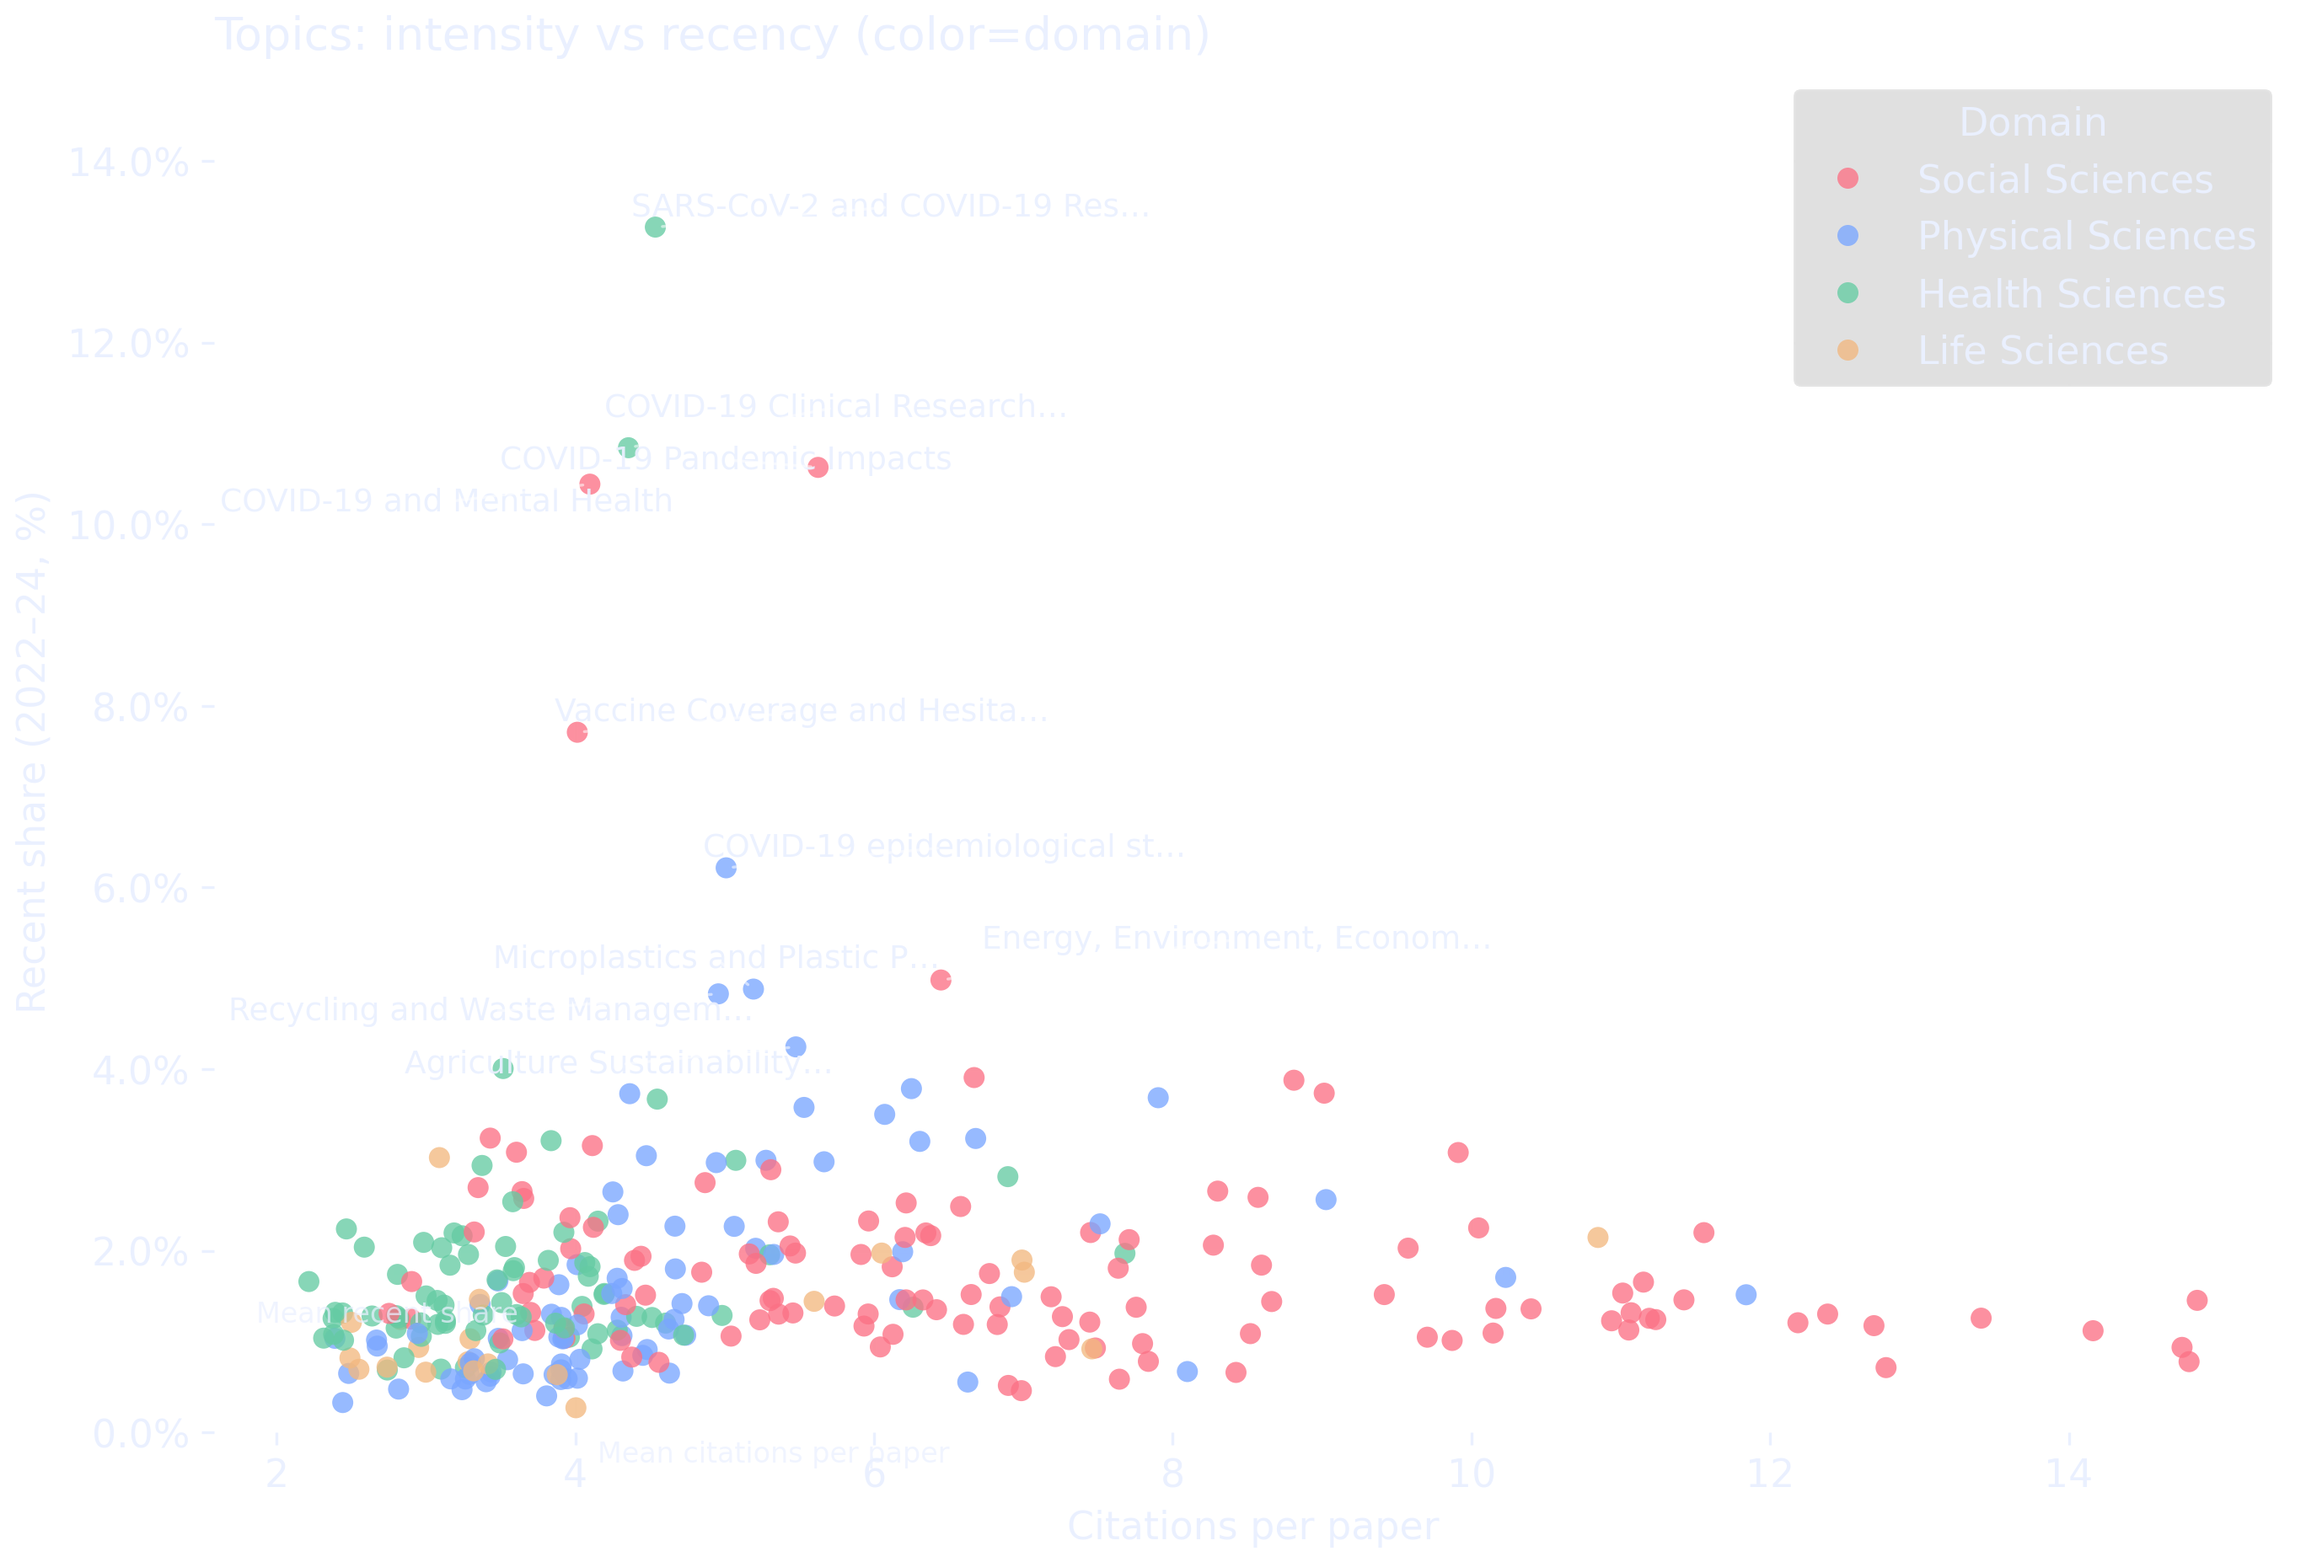
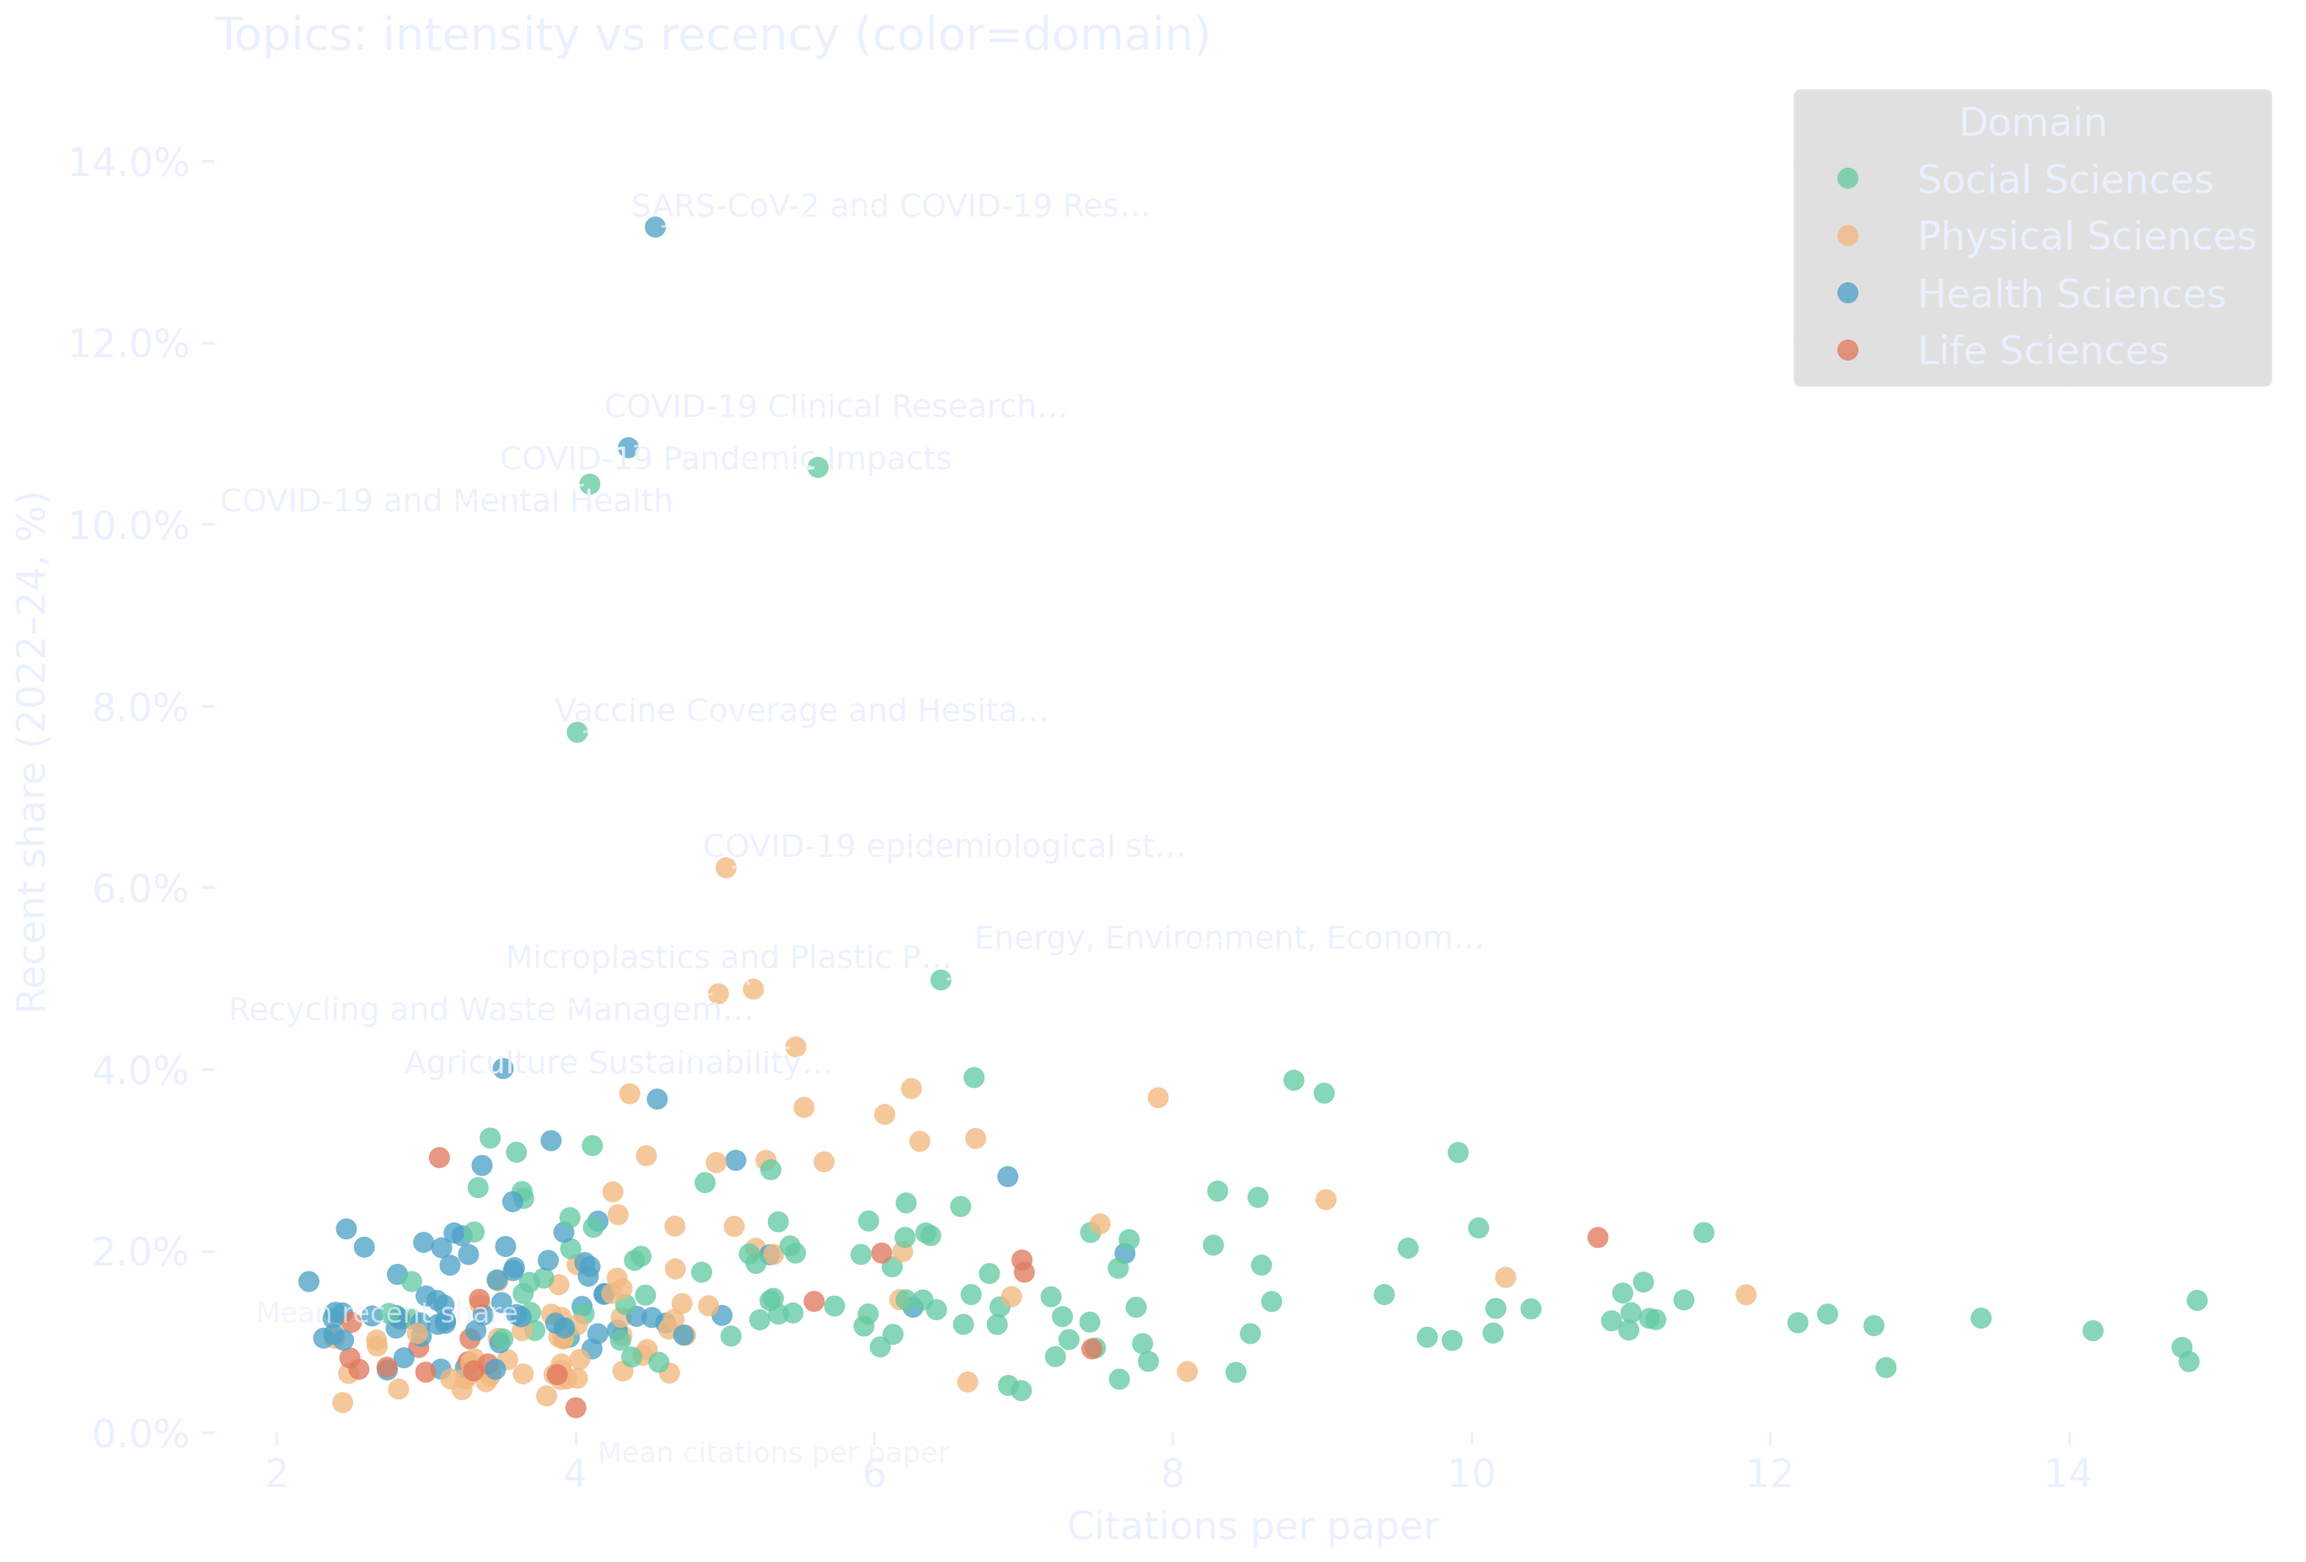
Update landing figures with refreshed styles

diff --git a/index.html b/index.html
@@ -23,7 +23,7 @@
 
       <section class="promo-hero" id="top">
         <div class="promo-hero__visual" aria-hidden="true">
-          <img src="Assets/Figures/policy_research_flow_network_drl.png" alt="" loading="lazy" />
+          <img src="Assets/Landing/hero_network.png" alt="" loading="lazy" />
         </div>
 
         <div class="promo-hero__inner">
@@ -153,7 +153,7 @@
           <div class="promo-scrolly__stage">
             <figure class="promo-figure is-active" data-figure-id="korea" aria-hidden="false">
               <img
-                src="Assets/Figures/korea_policy_research_flows_top10.png"
+                src="Assets/Landing/korea_flows.png"
                 data-i18n-attr="alt:fig.korea.alt"
                 alt="한국 정책–연구의 두 방향 흐름(유입/조달; 상위 10개)"
                 loading="lazy"
@@ -162,7 +162,7 @@
 
             <figure class="promo-figure" data-figure-id="network" aria-hidden="true">
               <img
-                src="Assets/Figures/policy_research_flow_network_drl.png"
+                src="Assets/Landing/flow_network.png"
                 data-i18n-attr="alt:fig.network.alt"
                 alt="정책–연구 근거 흐름 네트워크(상위 50개 국가; 각 노드 상위 3개 유입/조달)"
                 loading="lazy"
@@ -171,7 +171,7 @@
 
             <figure class="promo-figure" data-figure-id="hub" aria-hidden="true">
               <img
-                src="Assets/Figures/country_citations_top10.png"
+                src="Assets/Landing/country_citations_top10.png"
                 data-i18n-attr="alt:fig.hub.alt"
                 alt="정책 출처 엔티티별 정책 인용(상위 10개+한국)"
                 loading="lazy"
@@ -180,7 +180,7 @@
 
             <figure class="promo-figure" data-figure-id="domain" aria-hidden="true">
               <img
-                src="Assets/Figures/domain_top10.png"
+                src="Assets/Landing/domain_top10.png"
                 data-i18n-attr="alt:fig.domain.alt"
                 alt="도메인별 정책 인용 상위 10개"
                 loading="lazy"
@@ -189,7 +189,7 @@
 
             <figure class="promo-figure" data-figure-id="topics" aria-hidden="true">
               <img
-                src="Assets/Figures/topic_intensity_vs_recency.png"
+                src="Assets/Landing/topic_intensity_vs_recency.png"
                 data-i18n-attr="alt:fig.topics.alt"
                 alt="토픽별 인용 강도 vs 최근성"
                 loading="lazy"
@@ -198,7 +198,7 @@
 
             <figure class="promo-figure" data-figure-id="pubyear" aria-hidden="true">
               <img
-                src="Assets/Figures/pubyear_trend.png"
+                src="Assets/Landing/pubyear_trend.png"
                 data-i18n-attr="alt:fig.pubyear.alt"
                 alt="정책 문헌 발행연도별 인용수·문헌수·문헌당 인용수"
                 loading="lazy"
